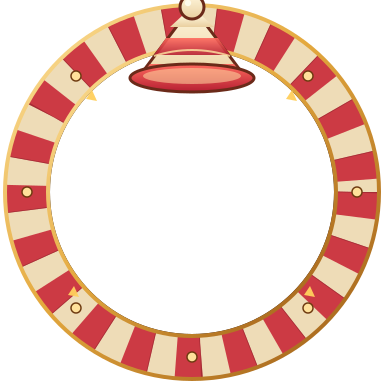
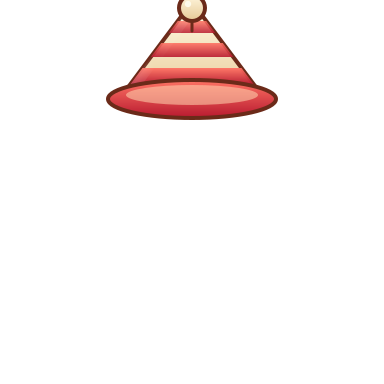
Make the streak-break frame a hat-only cosmetic

diff --git a/web/sw.js b/web/sw.js
@@ -1,13 +1,13 @@
 "use strict";
 
 // Bump this version whenever any shell asset below changes.
-const CACHE_VERSION = "gl-shell-v36-2026-10-30";
-// Previous cache generations: gl-shell-v35-2026-10-30, gl-shell-v34-2026-10-29, gl-shell-v33-2026-10-29, gl-shell-v32-2026-10-28, gl-shell-v31-2026-10-28, gl-shell-v30-2026-10-28, gl-shell-v29-2026-10-28, gl-shell-v28-2026-10-28, gl-shell-v27-2026-10-28, gl-shell-v26-2026-10-28, gl-shell-v25-2026-10-27
+const CACHE_VERSION = "gl-shell-v37-2026-10-30";
+// Previous cache generations: gl-shell-v36-2026-10-30, gl-shell-v35-2026-10-30, gl-shell-v34-2026-10-29, gl-shell-v33-2026-10-29, gl-shell-v32-2026-10-28, gl-shell-v31-2026-10-28, gl-shell-v30-2026-10-28, gl-shell-v29-2026-10-28, gl-shell-v28-2026-10-28, gl-shell-v27-2026-10-28, gl-shell-v26-2026-10-28, gl-shell-v25-2026-10-27
 const SHELL = [
   "/",
   "/index.html",
-  "/style.css?v=36",
-  "/app.js?v=36",
+  "/style.css?v=37",
+  "/app.js?v=37",
   "/manifest.webmanifest",
   "/icons/icon-192.png",
   "/icons/icon-512.png",

diff --git a/web/index.html b/web/index.html
@@ -13,7 +13,7 @@
   <link rel="manifest" href="/manifest.webmanifest">
   <link rel="icon" href="/icons/icon-192.png" type="image/png">
   <link rel="apple-touch-icon" href="/icons/apple-touch-icon.png">
-  <link rel="stylesheet" href="/style.css?v=36">
+  <link rel="stylesheet" href="/style.css?v=37">
 </head>
 <body>
   <a class="skip-link" href="#app-shell">跳到主要内容</a>
@@ -878,6 +878,6 @@ async function flush(token) {
   <div id="toast" class="toast" role="status" aria-live="polite" hidden></div>
   <p id="live-status" class="sr-only" role="status" aria-live="polite" aria-atomic="true"></p>
   <noscript><p class="noscript">需要启用 JavaScript 才能使用联赛页面。</p></noscript>
-  <script src="/app.js?v=36" defer></script>
+  <script src="/app.js?v=37" defer></script>
 </body>
 </html>

diff --git a/web/style.css b/web/style.css
@@ -699,15 +699,12 @@ a { color: var(--mint); }
     drop-shadow(0 0 0.22rem rgba(255, 210, 110, 0.8))
     drop-shadow(0 0 0.62rem rgba(255, 174, 60, 0.48))
     drop-shadow(0 0 1.15rem rgba(255, 120, 20, 0.22));
+  -webkit-mask-image: none;
+  mask-image: none;
 }
 .avatar[data-frame="frame_clown"].has-frame-art::before,
 .header-avatar[data-frame="frame_clown"].has-frame-art::before {
-  background: radial-gradient(
-    circle,
-    rgba(255, 210, 110, 0.34) 0 52%,
-    rgba(255, 174, 60, 0.1428) 78%,
-    rgba(255, 174, 60, 0) 100%
-  );
+  display: none;
 }
 .avatar-large { width: 3.05rem; height: 3.05rem; font-size: 1.05rem; }
 .avatar-xl { width: 5.2rem; height: 5.2rem; font-size: 1.7rem; }

diff --git a/ghost_league/badge.py b/ghost_league/badge.py
@@ -74,7 +74,7 @@ class FrameVisual:
     """
 
     asset: str
-    glow_color: str
+    glow_color: str | None
     glow_opacity: float = 0.34
     top_margin: int = 4
     # Fraction of the image's half-size that contains visible pixels.  The
@@ -101,7 +101,7 @@ FRAME_VISUALS: dict[str, FrameVisual] = {
     ),
     "frame_clown": FrameVisual(
         asset="frame_clown.png",
-        glow_color="#ffc857",
+        glow_color=None,
     ),
 }
 
@@ -442,15 +442,22 @@ def _frame_markup(frame_id: object, geometry: BadgeGeometry) -> tuple[str, str]:
     y = cy - half
     glow_radius = half * FRAME_GLOW_SCALE
 
-    defs = f'''
+    defs = ""
+    if visual.glow_color is not None:
+        defs = f'''
     <radialGradient id="badge-frame-glow" cx="0.5" cy="0.5" r="0.5">
       <stop offset="0.52" stop-color="{visual.glow_color}" stop-opacity="{visual.glow_opacity}"/>
       <stop offset="0.78" stop-color="{visual.glow_color}" stop-opacity="{visual.glow_opacity * 0.42:.3f}"/>
       <stop offset="1" stop-color="{visual.glow_color}" stop-opacity="0"/>
     </radialGradient>'''
+    glow = (
+        f'<circle cx="{cx:.2f}" cy="{cy:.2f}" r="{glow_radius:.2f}" fill="url(#badge-frame-glow)"/>'
+        if visual.glow_color is not None
+        else ""
+    )
     markup = f'''
   <g class="badge-frame" data-frame="{xml_escape(key)}">
-    <circle cx="{cx:.2f}" cy="{cy:.2f}" r="{glow_radius:.2f}" fill="url(#badge-frame-glow)"/>
+    {glow}
     <image class="badge-frame-image" x="{x:.2f}" y="{y:.2f}" width="{size:.2f}" height="{size:.2f}" preserveAspectRatio="xMidYMid meet" href="{data_uri}"/>
   </g>'''
     return defs, markup
